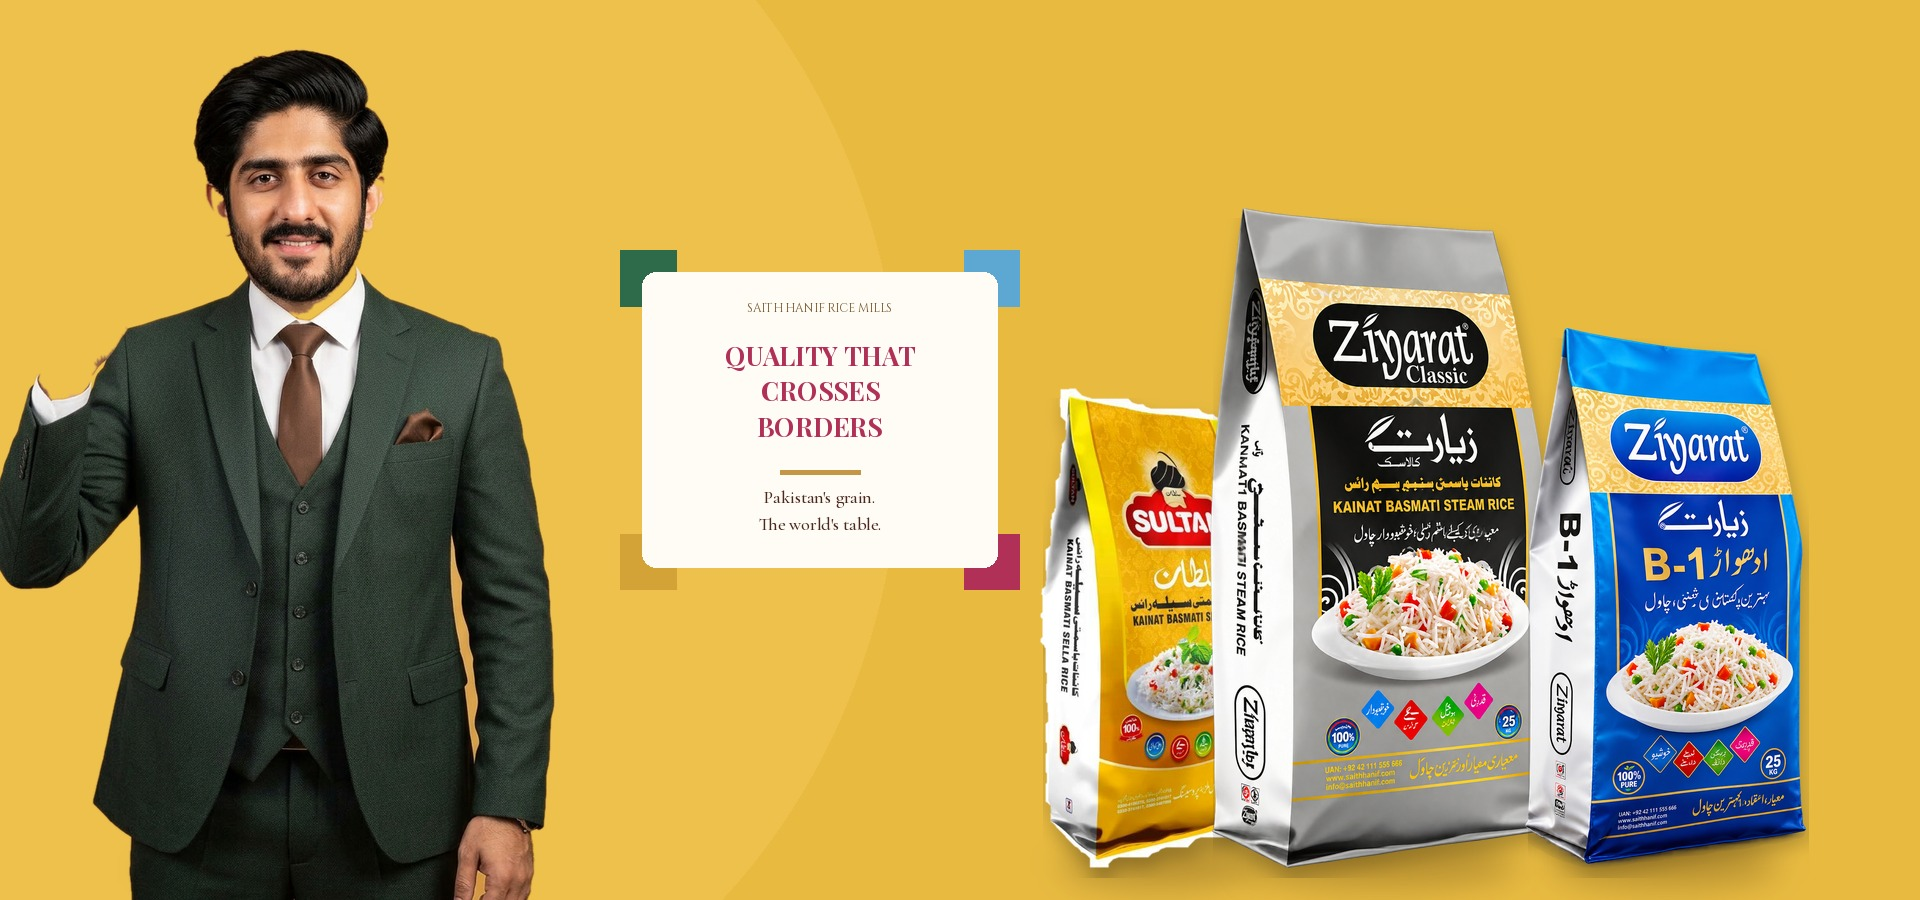
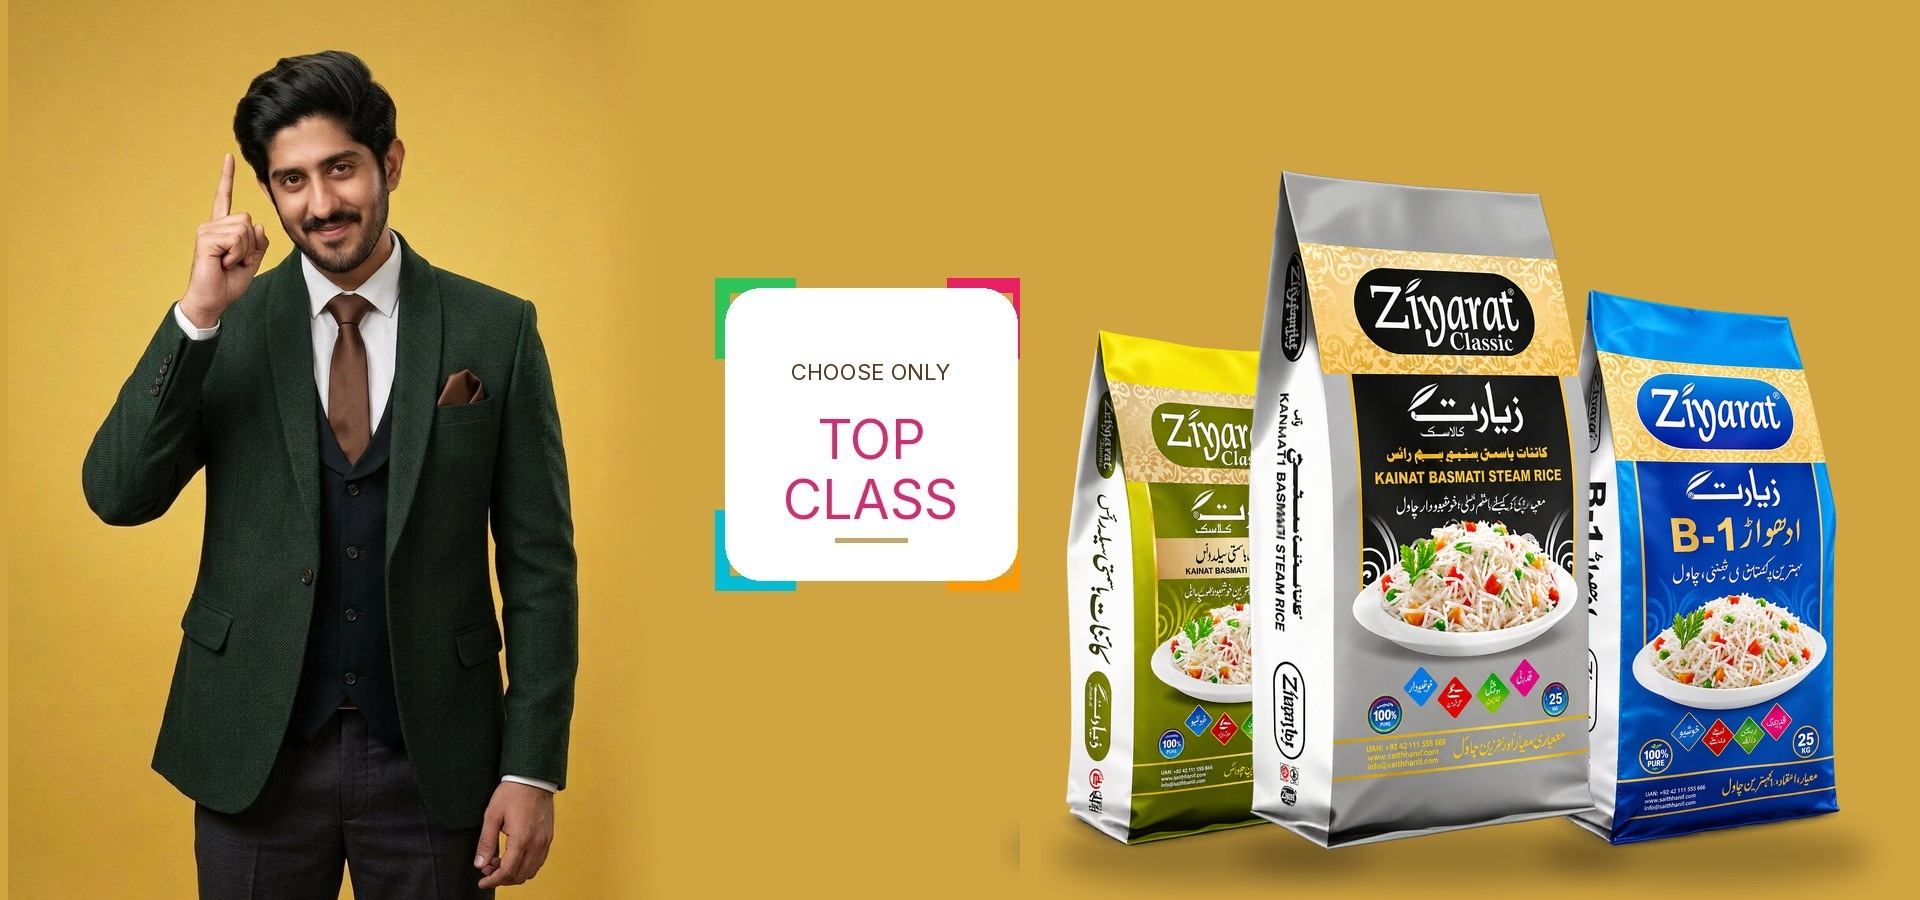
Restore the approved Top Class campaign poster.
Desktop uses the chosen artwork. Mobile is a matching stack of
the same talent, card and packs.

diff --git a/index.html b/index.html
@@ -13,7 +13,7 @@
   <meta property="og:url" content="https://muhammadashir0.github.io/jhabran-rice-mill/">
   <meta property="og:image" content="https://muhammadashir0.github.io/jhabran-rice-mill/assets/images/hero-products-campaign.jpg">
   <meta name="theme-color" content="#0B241C">
-  <link rel="preload" as="image" href="assets/images/hero-products-campaign.jpg?v=38">
+  <link rel="preload" as="image" href="assets/images/hero-products-campaign.jpg?v=39">
   <link rel="icon" href="assets/icons/favicon-32.png?v=34" type="image/png" sizes="32x32">
   <link rel="icon" href="assets/icons/mark.png?v=34" type="image/png" sizes="192x192">
   <link rel="apple-touch-icon" href="assets/icons/apple-touch.png?v=34">
@@ -81,8 +81,8 @@
 
         <article class="slide is-on slide-campaign">
           <picture>
-            <source media="(max-width: 720px)" srcset="assets/images/hero-products-campaign-m.jpg?v=38">
-            <img src="assets/images/hero-products-campaign.jpg?v=38" alt="Quality that crosses borders — Saith Hanif Rice Mills, Jhabran" width="1920" height="900" fetchpriority="high" decoding="async">
+            <source media="(max-width: 720px)" srcset="assets/images/hero-products-campaign-m.jpg?v=39">
+            <img src="assets/images/hero-products-campaign.jpg?v=39" alt="Choose only top class — Ziyarat rice from Saith Hanif Rice Mills" width="1920" height="900" fetchpriority="high" decoding="async">
           </picture>
           <div class="hero-shade"></div>
           <div class="hero-content hero-center">

diff --git a/products.html b/products.html
@@ -76,8 +76,8 @@
     <section class="hero page-hero products-campaign">
       <div class="hero-media">
         <picture>
-          <source media="(max-width: 720px)" srcset="assets/images/hero-products-campaign-m.jpg?v=38">
-          <img src="assets/images/hero-products-campaign.jpg?v=38" alt="Quality that crosses borders — Saith Hanif Rice Mills, Jhabran" width="1920" height="900" fetchpriority="high" decoding="async">
+          <source media="(max-width: 720px)" srcset="assets/images/hero-products-campaign-m.jpg?v=39">
+          <img src="assets/images/hero-products-campaign.jpg?v=39" alt="Choose only top class — Ziyarat rice from Saith Hanif Rice Mills" width="1920" height="900" fetchpriority="high" decoding="async">
         </picture>
       </div>
       <div class="hero-shade"></div>
